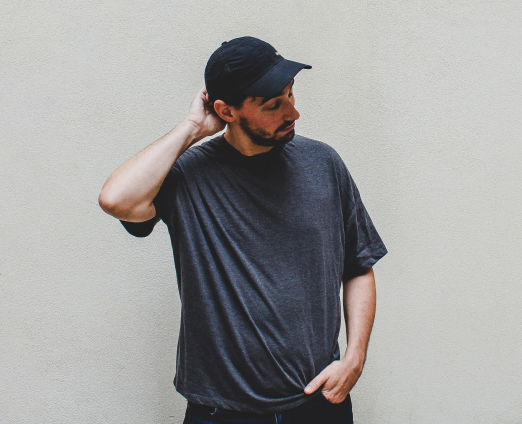
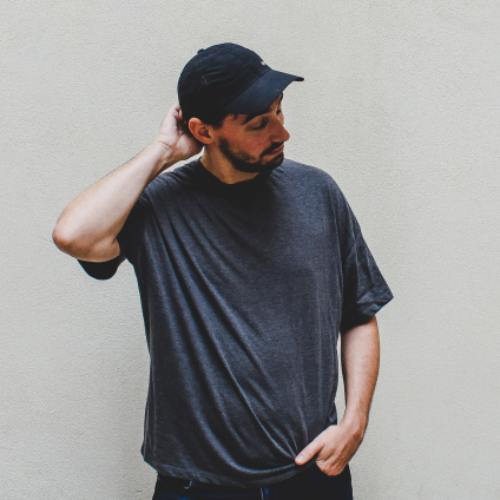
now changing hero img when switching dark mode

diff --git a/public/js/dark-mode.js b/public/js/dark-mode.js
@@ -1,20 +1,23 @@
 document.addEventListener('DOMContentLoaded', () => {
-    const darkModeToggle = document.getElementById('darkModeToggle')
-    const body = document.body
+  const darkModeToggle = document.getElementById('darkModeToggle')
+  const body = document.body
+  const heroImage = document.querySelector('[data-hero-image]')
   
-    // Check for saved dark mode preference
-    if (localStorage.getItem('darkMode') === 'enabled') {
-      body.classList.add('dark-mode')
-    }
-  
-    darkModeToggle.addEventListener('click', () => {
-      body.classList.toggle('dark-mode')
-      
-      // Save preference to localStorage
-      if (body.classList.contains('dark-mode')) {
-        localStorage.setItem('darkMode', 'enabled')
-      } else {
-        localStorage.setItem('darkMode', null)
-      }
-    })
+  const lightModeImage = '/img/hero-image.png'
+  const darkModeImage = '/img/hero-image-dark.png'  // Make sure this image exists
+
+  function setDarkMode(isDark) {
+      body.classList.toggle('dark-mode', isDark)
+      heroImage.src = isDark ? darkModeImage : lightModeImage
+      localStorage.setItem('darkMode', isDark ? 'enabled' : null)
+  }
+
+  // Check for saved dark mode preference
+  if (localStorage.getItem('darkMode') === 'enabled') {
+      setDarkMode(true)
+  }
+
+  darkModeToggle.addEventListener('click', () => {
+      setDarkMode(!body.classList.contains('dark-mode'))
+  })
 })

diff --git a/public/css/style.css b/public/css/style.css
@@ -348,6 +348,7 @@ img {
     filter: drop-shadow(0px 44px 34px rgba(0,0,0,0.25));
     overflow: hidden;
     border-radius: var(--border-radius);
+    transition: opacity 3s ease-in-out;
 }
 
 
@@ -901,6 +902,7 @@ img {
 @media only screen and (min-width: 1500px) {
     .header {
         padding: 0 20rem;
+        margin-bottom: 80px;
     }
 }
 
